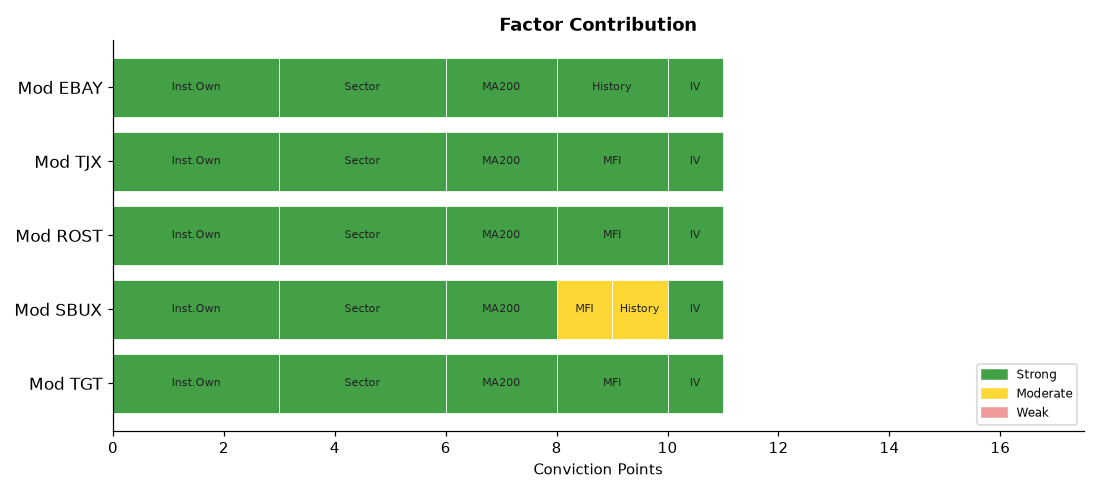
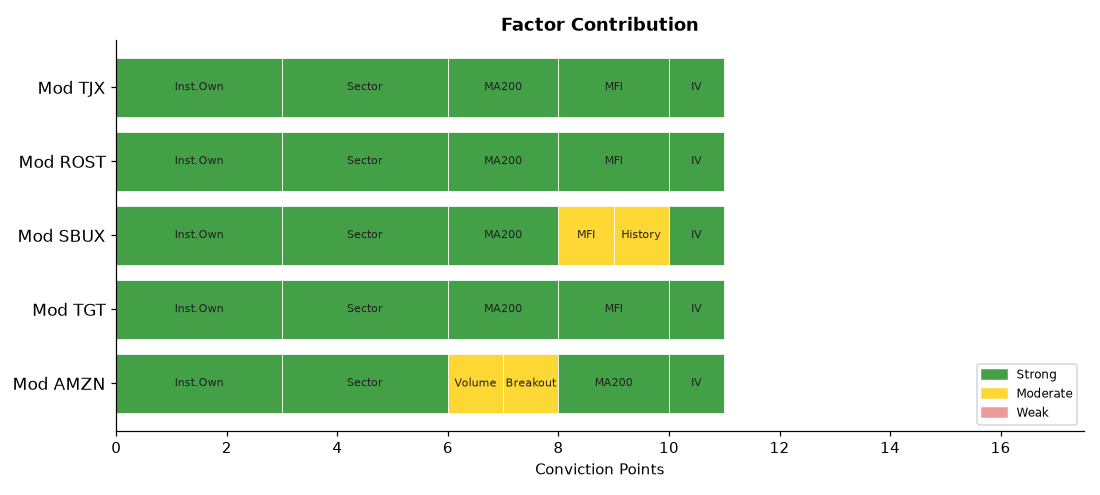
deploy: b7fadf5b06deb90e7ebb92f278722414bdd9750d

diff --git a/index.html b/index.html
@@ -4,7 +4,7 @@
   <meta charset="UTF-8">
   <meta name="viewport" content="width=device-width,initial-scale=1">
   <meta http-equiv="Cache-Control" content="no-cache,no-store,must-revalidate">
-  <title>Stock Breakout Screener — 2026-07-31 15:35</title>
+  <title>Stock Breakout Screener — 2026-07-31 16:15</title>
   <style>
     *{box-sizing:border-box;margin:0;padding:0}
     body{font-family:'Segoe UI',Arial,sans-serif;background:#f0f2f5;
@@ -34,7 +34,7 @@
 
 <div class="hdr">
   <h1>📈 Stock Breakout Screener</h1>
-  <p>Updated: 2026-07-31 15:35 UTC &nbsp;·&nbsp; Phase: Regular Market Hours &nbsp;·&nbsp;
+  <p>Updated: 2026-07-31 16:15 UTC &nbsp;·&nbsp; Phase: Regular Market Hours &nbsp;·&nbsp;
      129 stocks screened &nbsp;·&nbsp; Top 5 by conviction score</p>
 </div>
 
@@ -60,7 +60,7 @@
           <div style="display:flex;align-items:center;gap:10px;
                       flex-wrap:wrap;margin-bottom:10px">
             <span style="font-size:22px">🟡</span>
-            <span style="font-size:19px;font-weight:700">1. TGT</span>
+            <span style="font-size:19px;font-weight:700">1. AMZN</span>
             <span style="font-size:12px;color:#666">Consumer Disc</span>
             <span style="margin-left:auto;background:#1a237e;color:#fff;
                          padding:3px 12px;border-radius:12px;
@@ -69,7 +69,7 @@
             </span>
           </div>
           <ul style="margin:0;padding-left:18px;font-size:13px;
-                     color:#333;line-height:1.8"><li style="margin:5px 0"><span style="background:#ffebee;color:#b71c1c;padding:2px 7px;border-radius:4px;font-size:11px;">❌</span> Volume: <b>0.5× average</b> — Above-average activity</li><li style="margin:5px 0"><span style="background:#ffebee;color:#b71c1c;padding:2px 7px;border-radius:4px;font-size:11px;">❌</span> Candle: close <b>$144.51</b> vs open <b>$144.10</b> (+0.3%) — regular market close</li><li style="margin:5px 0"><span style="background:#e8f5e9;color:#2e7d32;padding:2px 7px;border-radius:4px;font-size:11px;">✅</span> 200-Day MA: price <b>$144.51</b> vs MA <b>$124.46</b> — <b>✅ Above</b> long-term trend</li><li style="margin:5px 0"><span style="background:#e8f5e9;color:#2e7d32;padding:2px 7px;border-radius:4px;font-size:11px;">✅</span> Inst. ownership: <b>87.5%</b> · MFI: <b>62.4</b> · Market cap: <b>$65.1B</b></li></ul>
+                     color:#333;line-height:1.8"><li style="margin:5px 0"><span style="background:#fffde7;color:#f57f17;padding:2px 7px;border-radius:4px;font-size:11px;">⚠</span> Volume: <b>1.5× average</b> — Above-average activity</li><li style="margin:5px 0"><span style="background:#fffde7;color:#f57f17;padding:2px 7px;border-radius:4px;font-size:11px;">⚠</span> Candle: close <b>$270.67</b> vs open <b>$264.98</b> (+2.1%) — regular market close</li><li style="margin:5px 0"><span style="background:#e8f5e9;color:#2e7d32;padding:2px 7px;border-radius:4px;font-size:11px;">✅</span> 200-Day MA: price <b>$270.67</b> vs MA <b>$236.58</b> — <b>✅ Above</b> long-term trend</li><li style="margin:5px 0"><span style="background:#e8f5e9;color:#2e7d32;padding:2px 7px;border-radius:4px;font-size:11px;">✅</span> Inst. ownership: <b>68.0%</b> · MFI: <b>40.8</b> · Market cap: <b>$2910.8B</b></li></ul>
         </div>
         <div style="background:#fff;border:1px solid #ddd;border-radius:10px;
                     padding:16px 20px;margin-bottom:12px;
@@ -77,7 +77,7 @@
           <div style="display:flex;align-items:center;gap:10px;
                       flex-wrap:wrap;margin-bottom:10px">
             <span style="font-size:22px">🟡</span>
-            <span style="font-size:19px;font-weight:700">2. SBUX</span>
+            <span style="font-size:19px;font-weight:700">2. TGT</span>
             <span style="font-size:12px;color:#666">Consumer Disc</span>
             <span style="margin-left:auto;background:#1a237e;color:#fff;
                          padding:3px 12px;border-radius:12px;
@@ -86,7 +86,7 @@
             </span>
           </div>
           <ul style="margin:0;padding-left:18px;font-size:13px;
-                     color:#333;line-height:1.8"><li style="margin:5px 0"><span style="background:#ffebee;color:#b71c1c;padding:2px 7px;border-radius:4px;font-size:11px;">❌</span> Volume: <b>0.4× average</b> — Above-average activity</li><li style="margin:5px 0"><span style="background:#ffebee;color:#b71c1c;padding:2px 7px;border-radius:4px;font-size:11px;">❌</span> Candle: close <b>$105.47</b> vs open <b>$106.58</b> (-1.0%) — regular market close</li><li style="margin:5px 0"><span style="background:#e8f5e9;color:#2e7d32;padding:2px 7px;border-radius:4px;font-size:11px;">✅</span> 200-Day MA: price <b>$105.47</b> vs MA <b>$99.47</b> — <b>✅ Above</b> long-term trend</li><li style="margin:5px 0"><span style="background:#e8f5e9;color:#2e7d32;padding:2px 7px;border-radius:4px;font-size:11px;">✅</span> Inst. ownership: <b>86.7%</b> · MFI: <b>53.7</b> · Market cap: <b>$120.2B</b></li><li style="margin:5px 0"><span style="background:#fffde7;color:#f57f17;padding:2px 7px;border-radius:4px;font-size:11px;">⚠</span> Last similar breakout: <b>Apr 29, 2026</b> → <b>+0.4%</b> over 10 trading days</li></ul>
+                     color:#333;line-height:1.8"><li style="margin:5px 0"><span style="background:#ffebee;color:#b71c1c;padding:2px 7px;border-radius:4px;font-size:11px;">❌</span> Volume: <b>0.5× average</b> — Above-average activity</li><li style="margin:5px 0"><span style="background:#ffebee;color:#b71c1c;padding:2px 7px;border-radius:4px;font-size:11px;">❌</span> Candle: close <b>$144.51</b> vs open <b>$144.10</b> (+0.3%) — regular market close</li><li style="margin:5px 0"><span style="background:#e8f5e9;color:#2e7d32;padding:2px 7px;border-radius:4px;font-size:11px;">✅</span> 200-Day MA: price <b>$144.51</b> vs MA <b>$124.46</b> — <b>✅ Above</b> long-term trend</li><li style="margin:5px 0"><span style="background:#e8f5e9;color:#2e7d32;padding:2px 7px;border-radius:4px;font-size:11px;">✅</span> Inst. ownership: <b>87.5%</b> · MFI: <b>62.2</b> · Market cap: <b>N/A</b></li></ul>
         </div>
         <div style="background:#fff;border:1px solid #ddd;border-radius:10px;
                     padding:16px 20px;margin-bottom:12px;
@@ -94,7 +94,7 @@
           <div style="display:flex;align-items:center;gap:10px;
                       flex-wrap:wrap;margin-bottom:10px">
             <span style="font-size:22px">🟡</span>
-            <span style="font-size:19px;font-weight:700">3. ROST</span>
+            <span style="font-size:19px;font-weight:700">3. SBUX</span>
             <span style="font-size:12px;color:#666">Consumer Disc</span>
             <span style="margin-left:auto;background:#1a237e;color:#fff;
                          padding:3px 12px;border-radius:12px;
@@ -103,7 +103,7 @@
             </span>
           </div>
           <ul style="margin:0;padding-left:18px;font-size:13px;
-                     color:#333;line-height:1.8"><li style="margin:5px 0"><span style="background:#ffebee;color:#b71c1c;padding:2px 7px;border-radius:4px;font-size:11px;">❌</span> Volume: <b>0.9× average</b> — Above-average activity</li><li style="margin:5px 0"><span style="background:#ffebee;color:#b71c1c;padding:2px 7px;border-radius:4px;font-size:11px;">❌</span> Candle: close <b>$252.57</b> vs open <b>$250.94</b> (+0.6%) — regular market close</li><li style="margin:5px 0"><span style="background:#e8f5e9;color:#2e7d32;padding:2px 7px;border-radius:4px;font-size:11px;">✅</span> 200-Day MA: price <b>$252.57</b> vs MA <b>$218.79</b> — <b>✅ Above</b> long-term trend</li><li style="margin:5px 0"><span style="background:#e8f5e9;color:#2e7d32;padding:2px 7px;border-radius:4px;font-size:11px;">✅</span> Inst. ownership: <b>95.5%</b> · MFI: <b>71.2</b> · Market cap: <b>$80.6B</b></li></ul>
+                     color:#333;line-height:1.8"><li style="margin:5px 0"><span style="background:#ffebee;color:#b71c1c;padding:2px 7px;border-radius:4px;font-size:11px;">❌</span> Volume: <b>0.6× average</b> — Above-average activity</li><li style="margin:5px 0"><span style="background:#ffebee;color:#b71c1c;padding:2px 7px;border-radius:4px;font-size:11px;">❌</span> Candle: close <b>$105.20</b> vs open <b>$106.58</b> (-1.3%) — regular market close</li><li style="margin:5px 0"><span style="background:#e8f5e9;color:#2e7d32;padding:2px 7px;border-radius:4px;font-size:11px;">✅</span> 200-Day MA: price <b>$105.20</b> vs MA <b>$99.46</b> — <b>✅ Above</b> long-term trend</li><li style="margin:5px 0"><span style="background:#e8f5e9;color:#2e7d32;padding:2px 7px;border-radius:4px;font-size:11px;">✅</span> Inst. ownership: <b>86.7%</b> · MFI: <b>50.1</b> · Market cap: <b>$119.9B</b></li><li style="margin:5px 0"><span style="background:#fffde7;color:#f57f17;padding:2px 7px;border-radius:4px;font-size:11px;">⚠</span> Last similar breakout: <b>Apr 29, 2026</b> → <b>+0.4%</b> over 10 trading days</li></ul>
         </div>
         <div style="background:#fff;border:1px solid #ddd;border-radius:10px;
                     padding:16px 20px;margin-bottom:12px;
@@ -111,7 +111,7 @@
           <div style="display:flex;align-items:center;gap:10px;
                       flex-wrap:wrap;margin-bottom:10px">
             <span style="font-size:22px">🟡</span>
-            <span style="font-size:19px;font-weight:700">4. TJX</span>
+            <span style="font-size:19px;font-weight:700">4. ROST</span>
             <span style="font-size:12px;color:#666">Consumer Disc</span>
             <span style="margin-left:auto;background:#1a237e;color:#fff;
                          padding:3px 12px;border-radius:12px;
@@ -120,7 +120,7 @@
             </span>
           </div>
           <ul style="margin:0;padding-left:18px;font-size:13px;
-                     color:#333;line-height:1.8"><li style="margin:5px 0"><span style="background:#ffebee;color:#b71c1c;padding:2px 7px;border-radius:4px;font-size:11px;">❌</span> Volume: <b>1.2× average</b> — Above-average activity</li><li style="margin:5px 0"><span style="background:#ffebee;color:#b71c1c;padding:2px 7px;border-radius:4px;font-size:11px;">❌</span> Candle: close <b>$159.26</b> vs open <b>$159.99</b> (-0.5%) — regular market close</li><li style="margin:5px 0"><span style="background:#e8f5e9;color:#2e7d32;padding:2px 7px;border-radius:4px;font-size:11px;">✅</span> 200-Day MA: price <b>$159.26</b> vs MA <b>$156.66</b> — <b>✅ Above</b> long-term trend</li><li style="margin:5px 0"><span style="background:#e8f5e9;color:#2e7d32;padding:2px 7px;border-radius:4px;font-size:11px;">✅</span> Inst. ownership: <b>93.8%</b> · MFI: <b>61.7</b> · Market cap: <b>$174.5B</b></li></ul>
+                     color:#333;line-height:1.8"><li style="margin:5px 0"><span style="background:#ffebee;color:#b71c1c;padding:2px 7px;border-radius:4px;font-size:11px;">❌</span> Volume: <b>0.9× average</b> — Above-average activity</li><li style="margin:5px 0"><span style="background:#ffebee;color:#b71c1c;padding:2px 7px;border-radius:4px;font-size:11px;">❌</span> Candle: close <b>$252.57</b> vs open <b>$250.94</b> (+0.6%) — regular market close</li><li style="margin:5px 0"><span style="background:#e8f5e9;color:#2e7d32;padding:2px 7px;border-radius:4px;font-size:11px;">✅</span> 200-Day MA: price <b>$252.57</b> vs MA <b>$218.80</b> — <b>✅ Above</b> long-term trend</li><li style="margin:5px 0"><span style="background:#e8f5e9;color:#2e7d32;padding:2px 7px;border-radius:4px;font-size:11px;">✅</span> Inst. ownership: <b>95.5%</b> · MFI: <b>71.3</b> · Market cap: <b>$80.8B</b></li></ul>
         </div>
         <div style="background:#fff;border:1px solid #ddd;border-radius:10px;
                     padding:16px 20px;margin-bottom:12px;
@@ -128,7 +128,7 @@
           <div style="display:flex;align-items:center;gap:10px;
                       flex-wrap:wrap;margin-bottom:10px">
             <span style="font-size:22px">🟡</span>
-            <span style="font-size:19px;font-weight:700">5. EBAY</span>
+            <span style="font-size:19px;font-weight:700">5. TJX</span>
             <span style="font-size:12px;color:#666">Consumer Disc</span>
             <span style="margin-left:auto;background:#1a237e;color:#fff;
                          padding:3px 12px;border-radius:12px;
@@ -137,7 +137,7 @@
             </span>
           </div>
           <ul style="margin:0;padding-left:18px;font-size:13px;
-                     color:#333;line-height:1.8"><li style="margin:5px 0"><span style="background:#ffebee;color:#b71c1c;padding:2px 7px;border-radius:4px;font-size:11px;">❌</span> Volume: <b>0.5× average</b> — Above-average activity</li><li style="margin:5px 0"><span style="background:#ffebee;color:#b71c1c;padding:2px 7px;border-radius:4px;font-size:11px;">❌</span> Candle: close <b>$113.52</b> vs open <b>$113.86</b> (-0.3%) — regular market close</li><li style="margin:5px 0"><span style="background:#e8f5e9;color:#2e7d32;padding:2px 7px;border-radius:4px;font-size:11px;">✅</span> 200-Day MA: price <b>$113.52</b> vs MA <b>$101.68</b> — <b>✅ Above</b> long-term trend</li><li style="margin:5px 0"><span style="background:#e8f5e9;color:#2e7d32;padding:2px 7px;border-radius:4px;font-size:11px;">✅</span> Inst. ownership: <b>95.8%</b> · MFI: <b>38.6</b> · Market cap: <b>$50.1B</b></li><li style="margin:5px 0"><span style="background:#e8f5e9;color:#2e7d32;padding:2px 7px;border-radius:4px;font-size:11px;">✅</span> Last similar breakout: <b>Apr 30, 2026</b> → <b>+9.4%</b> over 10 trading days</li></ul>
+                     color:#333;line-height:1.8"><li style="margin:5px 0"><span style="background:#ffebee;color:#b71c1c;padding:2px 7px;border-radius:4px;font-size:11px;">❌</span> Volume: <b>0.2× average</b> — Above-average activity</li><li style="margin:5px 0"><span style="background:#ffebee;color:#b71c1c;padding:2px 7px;border-radius:4px;font-size:11px;">❌</span> Candle: close <b>$157.96</b> vs open <b>$159.05</b> (-0.7%) — regular market close</li><li style="margin:5px 0"><span style="background:#e8f5e9;color:#2e7d32;padding:2px 7px;border-radius:4px;font-size:11px;">✅</span> 200-Day MA: price <b>$157.96</b> vs MA <b>$156.66</b> — <b>✅ Above</b> long-term trend</li><li style="margin:5px 0"><span style="background:#e8f5e9;color:#2e7d32;padding:2px 7px;border-radius:4px;font-size:11px;">✅</span> Inst. ownership: <b>93.8%</b> · MFI: <b>61.6</b> · Market cap: <b>$174.5B</b></li></ul>
         </div>
 
 
@@ -168,6 +168,24 @@
   
         <tr>
           <td style="font-weight:700;text-align:left;padding-left:10px">
+            🟡 AMZN</td>
+          <td style="background:#fff9c4">1.5×</td>
+          <td style="background:#fff9c4">+2.1%</td>
+          <td style="background:#c8e6c9">
+            ▲ Above</td>
+          <td style="background:#c8e6c9">
+            68.0%</td>
+          <td style="background:#ffcdd2">
+            40.8</td>
+          <td style="background:#c8e6c9">Consumer Disc</td>
+          <td style="background:#c8e6c9">
+            32.1%</td>
+          <td style="background:#ffcdd2">
+            N/A</td>
+          <td style="font-weight:800;font-size:15px">11/17</td>
+        </tr>
+        <tr>
+          <td style="font-weight:700;text-align:left;padding-left:10px">
             🟡 TGT</td>
           <td style="background:#ffcdd2">0.5×</td>
           <td style="background:#ffcdd2">+0.3%</td>
@@ -176,10 +194,10 @@
           <td style="background:#c8e6c9">
             87.5%</td>
           <td style="background:#c8e6c9">
-            62.4</td>
+            62.2</td>
           <td style="background:#c8e6c9">Consumer Disc</td>
           <td style="background:#c8e6c9">
-            162.4%</td>
+            154.1%</td>
           <td style="background:#ffcdd2">
             N/A</td>
           <td style="font-weight:800;font-size:15px">11/17</td>
@@ -187,17 +205,17 @@
         <tr>
           <td style="font-weight:700;text-align:left;padding-left:10px">
             🟡 SBUX</td>
-          <td style="background:#ffcdd2">0.4×</td>
-          <td style="background:#ffcdd2">-1.0%</td>
+          <td style="background:#ffcdd2">0.6×</td>
+          <td style="background:#ffcdd2">-1.3%</td>
           <td style="background:#c8e6c9">
             ▲ Above</td>
           <td style="background:#c8e6c9">
             86.7%</td>
           <td style="background:#fff9c4">
-            53.7</td>
+            50.1</td>
           <td style="background:#c8e6c9">Consumer Disc</td>
           <td style="background:#c8e6c9">
-            140.7%</td>
+            132.7%</td>
           <td style="background:#fff9c4">
             +0.4%</td>
           <td style="font-weight:800;font-size:15px">11/17</td>
@@ -212,10 +230,10 @@
           <td style="background:#c8e6c9">
             95.5%</td>
           <td style="background:#c8e6c9">
-            71.2</td>
+            71.3</td>
           <td style="background:#c8e6c9">Consumer Disc</td>
           <td style="background:#c8e6c9">
-            139.5%</td>
+            167.1%</td>
           <td style="background:#ffcdd2">
             N/A</td>
           <td style="font-weight:800;font-size:15px">11/17</td>
@@ -223,37 +241,19 @@
         <tr>
           <td style="font-weight:700;text-align:left;padding-left:10px">
             🟡 TJX</td>
-          <td style="background:#ffcdd2">1.2×</td>
-          <td style="background:#ffcdd2">-0.5%</td>
+          <td style="background:#ffcdd2">0.2×</td>
+          <td style="background:#ffcdd2">-0.7%</td>
           <td style="background:#c8e6c9">
             ▲ Above</td>
           <td style="background:#c8e6c9">
             93.8%</td>
           <td style="background:#c8e6c9">
-            61.7</td>
+            61.6</td>
           <td style="background:#c8e6c9">Consumer Disc</td>
           <td style="background:#c8e6c9">
-            223.4%</td>
+            218.3%</td>
           <td style="background:#ffcdd2">
             N/A</td>
-          <td style="font-weight:800;font-size:15px">11/17</td>
-        </tr>
-        <tr>
-          <td style="font-weight:700;text-align:left;padding-left:10px">
-            🟡 EBAY</td>
-          <td style="background:#ffcdd2">0.5×</td>
-          <td style="background:#ffcdd2">-0.3%</td>
-          <td style="background:#c8e6c9">
-            ▲ Above</td>
-          <td style="background:#c8e6c9">
-            95.8%</td>
-          <td style="background:#ffcdd2">
-            38.6</td>
-          <td style="background:#c8e6c9">Consumer Disc</td>
-          <td style="background:#c8e6c9">
-            155.2%</td>
-          <td style="background:#c8e6c9">
-            +9.4%</td>
           <td style="font-weight:800;font-size:15px">11/17</td>
         </tr>
 </table>
@@ -278,57 +278,57 @@
         <tr>
           <td style="text-align:left;padding-left:10px;font-weight:600">
             #1 Consumer Disc</td>
-          <td style="background:#e8f5e9;color:#2e7d32;font-weight:700">+2.38%</td>
+          <td style="background:#e8f5e9;color:#2e7d32;font-weight:700">+2.95%</td>
         </tr>
         <tr>
           <td style="text-align:left;padding-left:10px;font-weight:600">
-            #2 Industrials</td>
-          <td style="background:#e8f5e9;color:#2e7d32;font-weight:700">+0.48%</td>
+            #2 Comm. Services</td>
+          <td style="background:#e8f5e9;color:#2e7d32;font-weight:700">+0.77%</td>
         </tr>
         <tr>
           <td style="text-align:left;padding-left:10px;font-weight:600">
-            #3 Comm. Services</td>
-          <td style="background:#e8f5e9;color:#2e7d32;font-weight:700">+0.39%</td>
+            #3 Industrials</td>
+          <td style="background:#e8f5e9;color:#2e7d32;font-weight:700">+0.64%</td>
         </tr>
         <tr>
           <td style="text-align:left;padding-left:10px;font-weight:600">
             #4 Financials</td>
-          <td style="background:#ffebee;color:#c62828;font-weight:700">-0.06%</td>
+          <td style="background:#e8f5e9;color:#2e7d32;font-weight:700">+0.06%</td>
         </tr>
         <tr>
           <td style="text-align:left;padding-left:10px;font-weight:600">
             #5 Energy</td>
-          <td style="background:#ffebee;color:#c62828;font-weight:700">-0.14%</td>
+          <td style="background:#ffebee;color:#c62828;font-weight:700">-0.08%</td>
         </tr>
         <tr>
           <td style="text-align:left;padding-left:10px;font-weight:600">
             #6 Utilities</td>
-          <td style="background:#ffebee;color:#c62828;font-weight:700">-0.22%</td>
+          <td style="background:#ffebee;color:#c62828;font-weight:700">-0.12%</td>
         </tr>
         <tr>
           <td style="text-align:left;padding-left:10px;font-weight:600">
             #7 Consumer Stpl</td>
-          <td style="background:#ffebee;color:#c62828;font-weight:700">-0.29%</td>
+          <td style="background:#ffebee;color:#c62828;font-weight:700">-0.18%</td>
         </tr>
         <tr>
           <td style="text-align:left;padding-left:10px;font-weight:600">
             #8 Real Estate</td>
-          <td style="background:#ffebee;color:#c62828;font-weight:700">-0.52%</td>
+          <td style="background:#ffebee;color:#c62828;font-weight:700">-0.41%</td>
         </tr>
         <tr>
           <td style="text-align:left;padding-left:10px;font-weight:600">
             #9 Healthcare</td>
-          <td style="background:#ffebee;color:#c62828;font-weight:700">-0.76%</td>
+          <td style="background:#ffebee;color:#c62828;font-weight:700">-0.61%</td>
         </tr>
         <tr>
           <td style="text-align:left;padding-left:10px;font-weight:600">
             #10 Technology</td>
-          <td style="background:#ffebee;color:#c62828;font-weight:700">-1.11%</td>
+          <td style="background:#ffebee;color:#c62828;font-weight:700">-0.91%</td>
         </tr>
         <tr>
           <td style="text-align:left;padding-left:10px;font-weight:600">
             #11 Materials</td>
-          <td style="background:#ffebee;color:#c62828;font-weight:700">-2.50%</td>
+          <td style="background:#ffebee;color:#c62828;font-weight:700">-2.34%</td>
         </tr>
     </table>
   </div>
@@ -367,7 +367,7 @@
         <li><b>Scoring weights:</b>
             Inst.Own(3) · Sector(3) · Volume(2) · Breakout(2) ·
             MA200(2) · MFI(2) · History(2) · IV(1) = 17pts max</li>
-        <li><b>Run time:</b> 2026-07-31 15:35 UTC — Market phase: Regular Market Hours</li>
+        <li><b>Run time:</b> 2026-07-31 16:15 UTC — Market phase: Regular Market Hours</li>
       </ul>
     </div>
 
